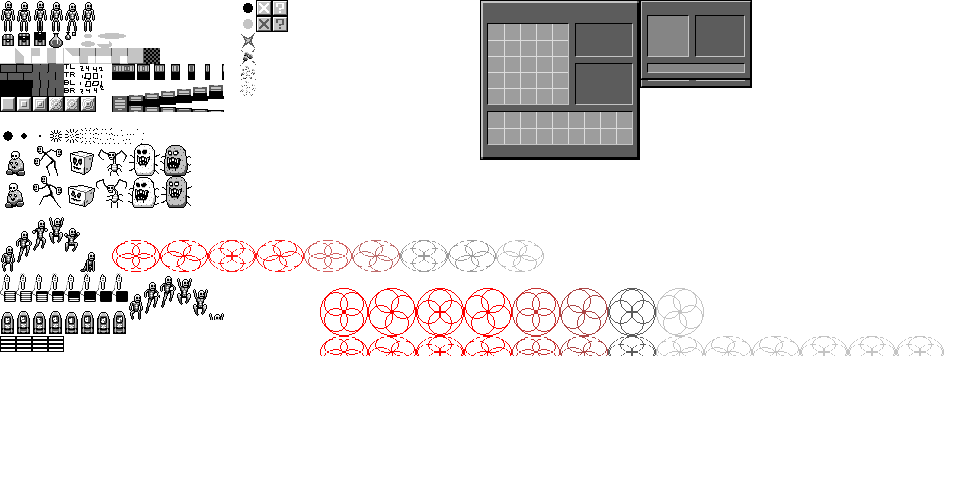
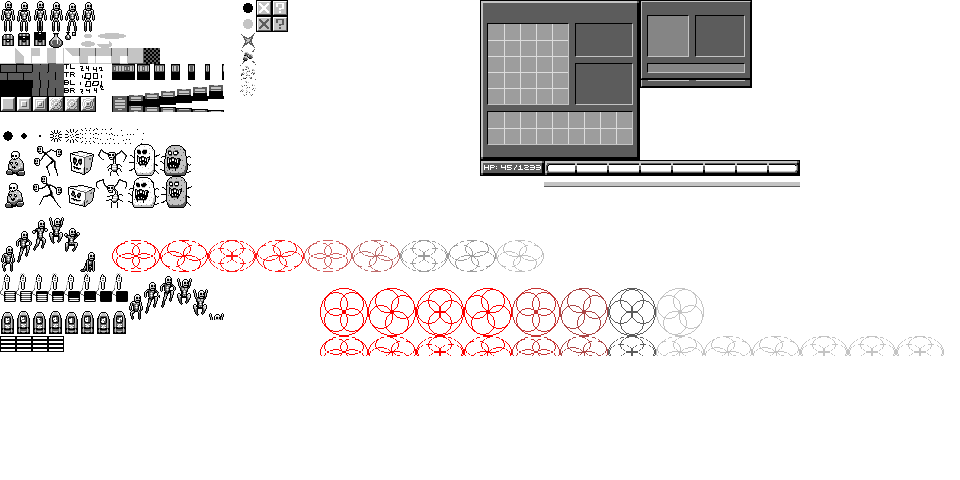
added hhealth bar

Changed region(s): [[0.5, 0.3125, 0.8438, 0.4062]]

diff --git a/src/game/ui.py b/src/game/ui.py
@@ -10,7 +10,6 @@ from src.world.entities import ItemEntity
 from src.items.itemrendering import TextImage
 import src.items.item as item_module
 from src.utils.util import Utils
-from src.game.inventory import InventoryState
 from src.game.stats import PlayerStatType, StatType
 
 
@@ -145,7 +144,79 @@ class InventoryPanel:
             yield bun
 
 
+class HealthBarPanel:
+
+    def __init__(self):
+        self._top_img = None
+        self._bar_img = None
+        self._floating_bars = []  # list of [img, duration]
+        self._float_dur = 30
+        self._float_height = 30
+        self._bar_color = (1.0, 0.5, 0.5)
+
+    def update_images(self, gs, cur_hp, max_hp, new_damage, new_healing):
+        if self._top_img is None:
+            self._top_img = ImageBundle(spriteref.health_bar_top, 0, 0,
+                                        layer=spriteref.UI_0_LAYER, scale=2)
+        if self._bar_img is None:
+            self._bar_img = ImageBundle.new_bundle(layer_id=spriteref.UI_0_LAYER, scale=2)
+            self._bar_img = self._bar_img.update(new_color=self._bar_color)
+
+        hp_pcnt_full = Utils.bound(cur_hp / max_hp, 0.0, 1.0)
+        x = gs.screen_size[0] // 2 - self._top_img.width() // 2
+        w = self._top_img.width()
+        y = gs.screen_size[1] - self._top_img.height()
+
+        if new_damage > 0:
+            pcnt_full = Utils.bound(new_damage / max_hp, 0.0, 1.0)
+            dmg_x = int(x + hp_pcnt_full * w)
+            dmg_sprite = spriteref.get_health_bar(pcnt_full)
+            dmg_img = ImageBundle(dmg_sprite, dmg_x, 0, layer=spriteref.UI_0_LAYER, scale=2)
+            self._floating_bars.append([dmg_img, 0])
+
+        for i in range(0, len(self._floating_bars)):
+            img, cur_dur = self._floating_bars[i]
+            prog = Utils.bound(cur_dur / self._float_dur, 0.0, 1.0)
+            h_offs = int(self._float_height * prog)
+            g = self._bar_color[1] * (1 - prog)
+            b = self._bar_color[2] * (1 - prog)
+
+            self._floating_bars[i][0] = img.update(new_y=(y - h_offs), new_color=(1.0, g, b))
+
+        self._top_img = self._top_img.update(new_x=x, new_y=y)
+        bar_sprite = spriteref.get_health_bar(hp_pcnt_full)
+
+        self._bar_img = self._bar_img.update(new_model=bar_sprite, new_x=x, new_y=y)
+
+    def update(self, world, gs, input_state, render_eng):
+        p_state = gs.player_state()
+        new_dmg, new_healing = p_state.damage_and_healing_last_tick()
+
+        if len(self._floating_bars) > 0:
+            new_bars = []
+            for fb in self._floating_bars:
+                if fb[1] >= self._float_dur:
+                    render_eng.remove(fb[0])
+                else:
+                    new_bars.append([fb[0], fb[1] + 1])
+            self._floating_bars = new_bars
+
+        self.update_images(gs, p_state.hp(), p_state.max_hp(), new_dmg, new_healing)
+
+        for bun in self.all_bundles():
+            render_eng.update(bun)
+
+    def all_bundles(self):
+        if self._bar_img is not None:
+            yield self._bar_img
+        if self._top_img is not None:
+            yield self._top_img
+        for floating_bar in self._floating_bars:
+            yield floating_bar[0]
+
+
 class MenuManager:
+
     DEATH_MENU = 0
     IN_GAME_MENU = 1
     START_MENU = 2
@@ -218,6 +289,7 @@ class InGameUiState(Menu):
         Menu.__init__(self, MenuManager.IN_GAME_MENU)
         self.item_panel = None
         self.inventory_panel = None
+        self.health_bar_panel = None
         
         self.item_on_cursor = None
         self.item_on_cursor_offs = [0, 0]
@@ -283,6 +355,11 @@ class InGameUiState(Menu):
             else:
                 self._destroy_panel(self.inventory_panel, render_eng)
                 self.inventory_panel = None
+
+    def _update_health_bar_panel(self, world, gs, input_state, render_eng):
+        if self.health_bar_panel is None:
+            self.health_bar_panel = HealthBarPanel()
+        self.health_bar_panel.update(world, gs, input_state, render_eng)
     
     def in_inventory_panel(self, screen_pos):
         if self.inventory_panel is None:
@@ -416,6 +493,7 @@ class InGameUiState(Menu):
         self._update_item_on_cursor(world, gs, input_state, render_eng)
         self._update_item_panel(world, gs, input_state, render_eng)
         self._update_inventory_panel(world, gs, input_state, render_eng)
+        self._update_health_bar_panel(world, gs, input_state, render_eng)
 
         p_state = gs.player_state()
         if p_state.hp() <= 0:
@@ -428,6 +506,9 @@ class InGameUiState(Menu):
         self.item_on_cursor = None  # XXX this will DESTROY the item on cursor
 
     def all_bundles(self):
+        if self.health_bar_panel is not None:
+            for bun in self.health_bar_panel.all_bundles():
+                yield bun
         if self.item_panel is not None:
             for bun in self.item_panel.all_bundles():
                 yield bun

diff --git a/src/game/actorstate.py b/src/game/actorstate.py
@@ -148,11 +148,17 @@ class PlayerState(ActorState):
 
         self.attack_state.set_attack(attacks.GROUND_POUND)
 
+        self._damage_last_tick = 0
+        self._healing_last_tick = 0
+
         self.is_moving = False
         self.facing_right = True
 
     def inventory(self):
         return self._inventory
+
+    def damage_and_healing_last_tick(self):
+        return self._damage_last_tick, self._healing_last_tick
 
     def is_invuln(self):
         # can't be hit while attacking
@@ -197,6 +203,8 @@ class PlayerState(ActorState):
         if self.took_damage_x_ticks_ago < self.damage_recoil:
             self.took_damage_x_ticks_ago += 1
 
+        self._damage_last_tick = sum(self.damage_amounts)
+        self._healing_last_tick = sum(self.damage_amounts)
         self.handle_floating_text(player_entity, world)
 
         if input_state.is_held(inputs.ATTACK) and self.attack_state.can_attack():

diff --git a/src/game/spriteref.py b/src/game/spriteref.py
@@ -87,6 +87,18 @@ explosions = [make(i*16, 128, 16, 16) for i in range(0, 8)]
 
 progress_bars = [make((i // 4)*16, (i % 4)*4 + 336, 16, 4) for i in range(0, 16)]
 
+health_bar_top = make(544, 160, 256, 16)
+health_bar_full = make(544, 176, 256, 16)
+health_bars_with_length = []
+for i in range(0, 256):
+    health_bars_with_length.append(make(544, 176, i, 16))
+health_bars_with_length.append(health_bar_full)
+
+
+def get_health_bar(pcnt_full):
+    return health_bars_with_length[round(pcnt_full * 256)]
+
+
 _chars = [letter for letter in string.ascii_lowercase]
 _chars.extend(["+", "-", "\"", ".", ",", "!", "?", "_", "~", "%", "=", ":", "'"])
 _qmark = make(160, 115, 5, 5)
